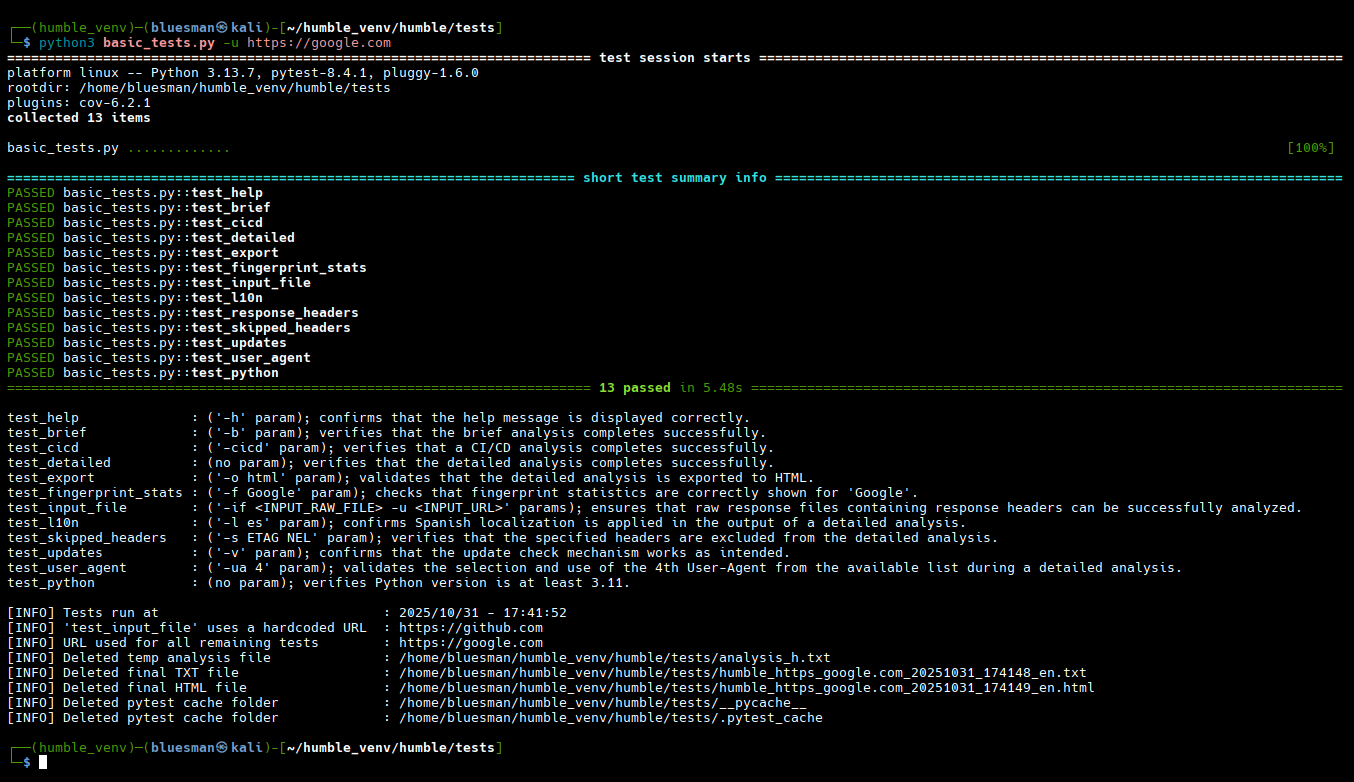
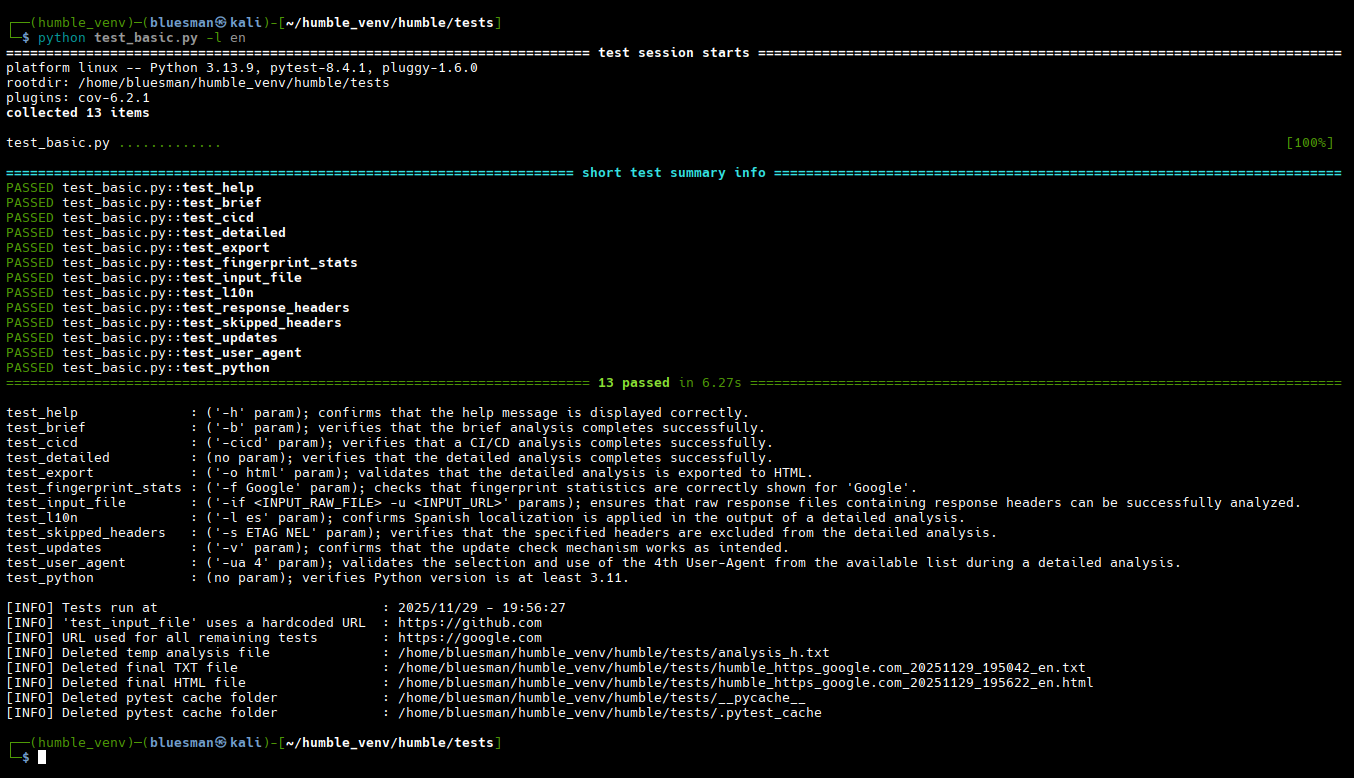
Feature: Code coverage
I know... there's a lot to improve, little by little :).

Changed region(s): [[0.0, 0.4627, 0.9616, 0.9871], [0.0, 0.0, 0.9926, 0.4936]]

diff --git a/tests/test_basic.py b/tests/test_basic.py
@@ -15,7 +15,7 @@ PYTEST_CACHE_DIRS = [
     path.join(HUMBLE_TESTS_DIR, d)
     for d in ['__pycache__', '.pytest_cache']
 ]
-HUMBLE_DESC = "Unit tests for 'humble' (HTTP Headers Analyzer)"
+HUMBLE_DESC = "Basic unit tests for 'humble' (HTTP Headers Analyzer)"
 HUMBLE_GIT = 'https://github.com/rfc-st/humble'
 HUMBLE_PROJECT_ROOT = path.abspath(path.join(HUMBLE_TESTS_DIR, '..'))
 HUMBLE_INPUT_DIR = path.join(HUMBLE_PROJECT_ROOT, 'samples')
@@ -47,6 +47,12 @@ TEST_SUMMS = ('[test_help]', '[test_brief]', '[test_cicd]', '[test_detailed]',
               '[test_export]', '[test_fingerprint_stats]', '[test_input_file]',
               '[test_l10n]', '[test_skipped_headers]', '[test_updates]',
               '[test_user_agent]', '[test_python]')
+URL_TEST = 'https://google.com'
+
+
+class _Args:
+    URL = INPUT_FILE_URL
+    lang = None
 
 
 @pytest.fixture(scope="session", autouse=True)
@@ -70,9 +76,12 @@ def print_error_detail(id_mode):
 
 
 def get_l10n_content():
-    l10n_path = path.join(HUMBLE_TESTS_DIR, HUMBLE_L10N_DIR,
-                          HUMBLE_L10N_FILE[1] if args.lang == 'es' else
-                          HUMBLE_L10N_FILE[0])
+    if args.lang == 'en':
+        l10n_file = HUMBLE_L10N_FILE[0]
+    elif args.lang == 'es':
+        l10n_file = HUMBLE_L10N_FILE[1]
+
+    l10n_path = path.join(HUMBLE_TESTS_DIR, HUMBLE_L10N_DIR, l10n_file)
     with open(l10n_path, 'r', encoding='utf8') as l10n_content:
         return l10n_content.readlines()
 
@@ -87,7 +96,7 @@ def print_results():
 
 
 def run_test(args, expected_text, timeout=5):
-    test_args = [url_test if a is None else a for a in args]
+    test_args = [URL_TEST if a is None else a for a in args]
     try:
         result = subprocess.run(
             [sys.executable, HUMBLE_MAIN_FILE] + test_args,
@@ -190,7 +199,7 @@ def delete_temps():
     info_msgs = [
         (get_detail('[test_tests]', replace=True), current_time),
         (get_detail('[test_input]', replace=True), INPUT_FILE_URL),
-        (get_detail('[test_remaining]', replace=True), url_test)
+        (get_detail('[test_remaining]', replace=True), URL_TEST)
     ]
     info_msgs.extend(delete_humble_analysis(HUMBLE_TEMP_FILE))
     info_msgs.extend(delete_txt_file())
@@ -210,7 +219,7 @@ def delete_temps():
         print(f"[INFO] {message.ljust(max_len + 2)}: {value}")
 
 
-local_version = datetime.strptime('2025-11-28', '%Y-%m-%d').date()
+local_version = datetime.strptime('2025-11-29', '%Y-%m-%d').date()
 parser = ArgumentParser(
     formatter_class=lambda prog: RawDescriptionHelpFormatter(
         prog, max_help_position=34
@@ -220,22 +229,14 @@ parser = ArgumentParser(
     )
 )
 
-parser.add_argument('-u', type=str, dest='URL',
-                    help="Scheme, host and port to use in the tests. E.g., \
-https://google.com")
-parser.add_argument("-l", dest='lang', choices=['es'], help="Defines the \
-language for displaying errors and messages; if omitted, will be shown in \
-English")
+parser.add_argument("-l", dest='lang', choices=['en', 'es'], help="Defines the\
+ language for displaying errors and messages")
 
-args = parser.parse_args(args=None if sys.argv[1:] else ['--help'])
-url_test = args.URL
-
-if args.lang and not args.URL:
-    print_error_detail('[test_elang]')
-
-l10n_main = get_l10n_content()
+args = _Args()
 
 if __name__ == "__main__":
+    args = parser.parse_args(args=None if sys.argv[1:] else ['--help'])
+    l10n_main = get_l10n_content()
     code = pytest.main([__file__, "--tb=no", "-rA", "-q", "-v"])
     print_results()
     delete_temps()

diff --git a/humble.py b/humble.py
@@ -176,7 +176,7 @@ VALIDATE_FILE = path.join(OS_PATH, HUMBLE_FILES[0])
 XML_STRING = ('Ref: ', 'Value: ', 'Valor: ')
 
 current_time = datetime.now().strftime("%Y/%m/%d - %H:%M:%S")
-local_version = datetime.strptime('2025-11-28', '%Y-%m-%d').date()
+local_version = datetime.strptime('2025-11-29', '%Y-%m-%d').date()
 
 BANNER_VERSION = f'{URL_LIST[4]} | v.{local_version}'
 

diff --git a/README.md b/README.md
@@ -6,7 +6,7 @@
 <a target="_blank" href="https://devguide.python.org/versions/" title="Minimum Python version required to run this tool"><img src="https://img.shields.io/badge/Python-%3E%3D3.11-blue?labelColor=343b41"></a>
 <a target="_blank" href="LICENSE" title="License of this tool"><img src="https://img.shields.io/badge/License-MIT-blue.svg?labelColor=343b41"></a>
 <a target="_blank" href="https://github.com/rfc-st/humble/releases" title="Latest release of this tool"><img src="https://img.shields.io/github/v/release/rfc-st/humble?display_name=release&label=Latest%20Release&labelColor=343b41"></a>
-<a target="_blank" href="https://github.com/rfc-st/humble/commits/master" title="Latest commit of this tool"><img src="https://img.shields.io/badge/Latest_Commit-2025--11--28-blue.svg?labelColor=343b41"></a>
+<a target="_blank" href="https://github.com/rfc-st/humble/commits/master" title="Latest commit of this tool"><img src="https://img.shields.io/badge/Latest_Commit-2025--11--29-blue.svg?labelColor=343b41"></a>
 <a target="_blank" href="https://pkg.kali.org/pkg/humble" title="Official tool in Kali Linux"><img src="https://img.shields.io/badge/Kali%20Linux-Tool-blue?labelColor=343b41"></a>
 <br />
 <a target="_blank" href="#" title="Featured on:"><img src="https://img.shields.io/badge/Featured%20on:-343b41"></a>
@@ -86,7 +86,7 @@
 :heavy_check_mark: Can display analysis statistics for a specific URL or across all of them.<br />
 :heavy_check_mark: Can display fingerprint statistics for a specific term or the Top 20.<br />
 :heavy_check_mark: Can display guidelines for enabling security HTTP response headers on popular frameworks, servers, and services.<br />
-:heavy_check_mark: Provides basic [unit tests](#unit-tests) to verify compatibility with your environment; requires <a href="https://pypi.org/project/pytest/" target="_blank">pytest<a>.<br />
+:heavy_check_mark: Provides basic [unit tests](#unit-tests) to verify compatibility with your environment; requires <a href="https://pypi.org/project/pytest/" target="_blank">pytest<a> and <a href="https://pypi.org/project/pytest-cov/">pytest-cov</a>.<br />
 :heavy_check_mark: Classes and functions documented at <a href="https://humble.readthedocs.io/en/latest/" target="_blank">Read the Docs<a>.<br />
 :heavy_check_mark: Code reviewed via <a href="https://pypi.org/project/bandit/" target="_blank">Bandit<a>, <a href="https://marketplace.visualstudio.com/items?itemName=ms-python.flake8" target="_blank">Flake8<a>, <a href="https://github.com/joerick/pyinstrument" target="_blank">pyinstrument<a>, <a href="https://marketplace.visualstudio.com/items?itemName=SonarSource.sonarlint-vscode" target="_blank">SonarQube for IDE<a> and <a href="https://marketplace.visualstudio.com/items?itemName=sourcery.sourcery" target="_blank">Sourcery<a>.<br />
 :heavy_check_mark: Tested, one by one, on thousands of URLs.<br />
@@ -426,14 +426,19 @@ $ python3 basic_tests.py -u <URL>
 
 <img src="https://github.com/rfc-st/humble/blob/master/screenshots/humble_basic_tests_ok.PNG" alt="(Linux) - All tests passed successfully">
 
-.: (Windows) - Some tests failed, in Spanish.<br />
+.: (Linux) - Code coverage.<br />
 ```
 $ cd <humble dir>
 $ cd tests
-$ py basic_tests.py -u <URL> -l es
+$ pytest test_basic.py --cov-config=.coveragerc --cov=.. --cov-report=html --tb=no -rA -q -v -W ignore
+$ cd htmlcov
+Open the index.html file in a browser.
 ```
 
-<img src="https://github.com/rfc-st/humble/blob/master/screenshots/humble_basic_tests_ko.PNG" alt="(Windows) - Some tests failed">
+<img src="https://github.com/rfc-st/humble/blob/master/screenshots/humble_code_coverage.PNG" alt="(Linux) - Code coverage">
+
+> [!NOTE]
+> _After reviewing the code coverage, you can delete all files and folders from the *tests* directory except for the *.coveragerc* and *test_basic.py* files.
 
 ## Checks: enabled headers
 

diff --git a/docs/references.md b/docs/references.md
@@ -1,5 +1,5 @@
 # References
 
-Class and function descriptions, listed in the order they appear in **humble.py**
+Classes and functions of **humble.py**, in alphabetical order
 
 ::: humble
